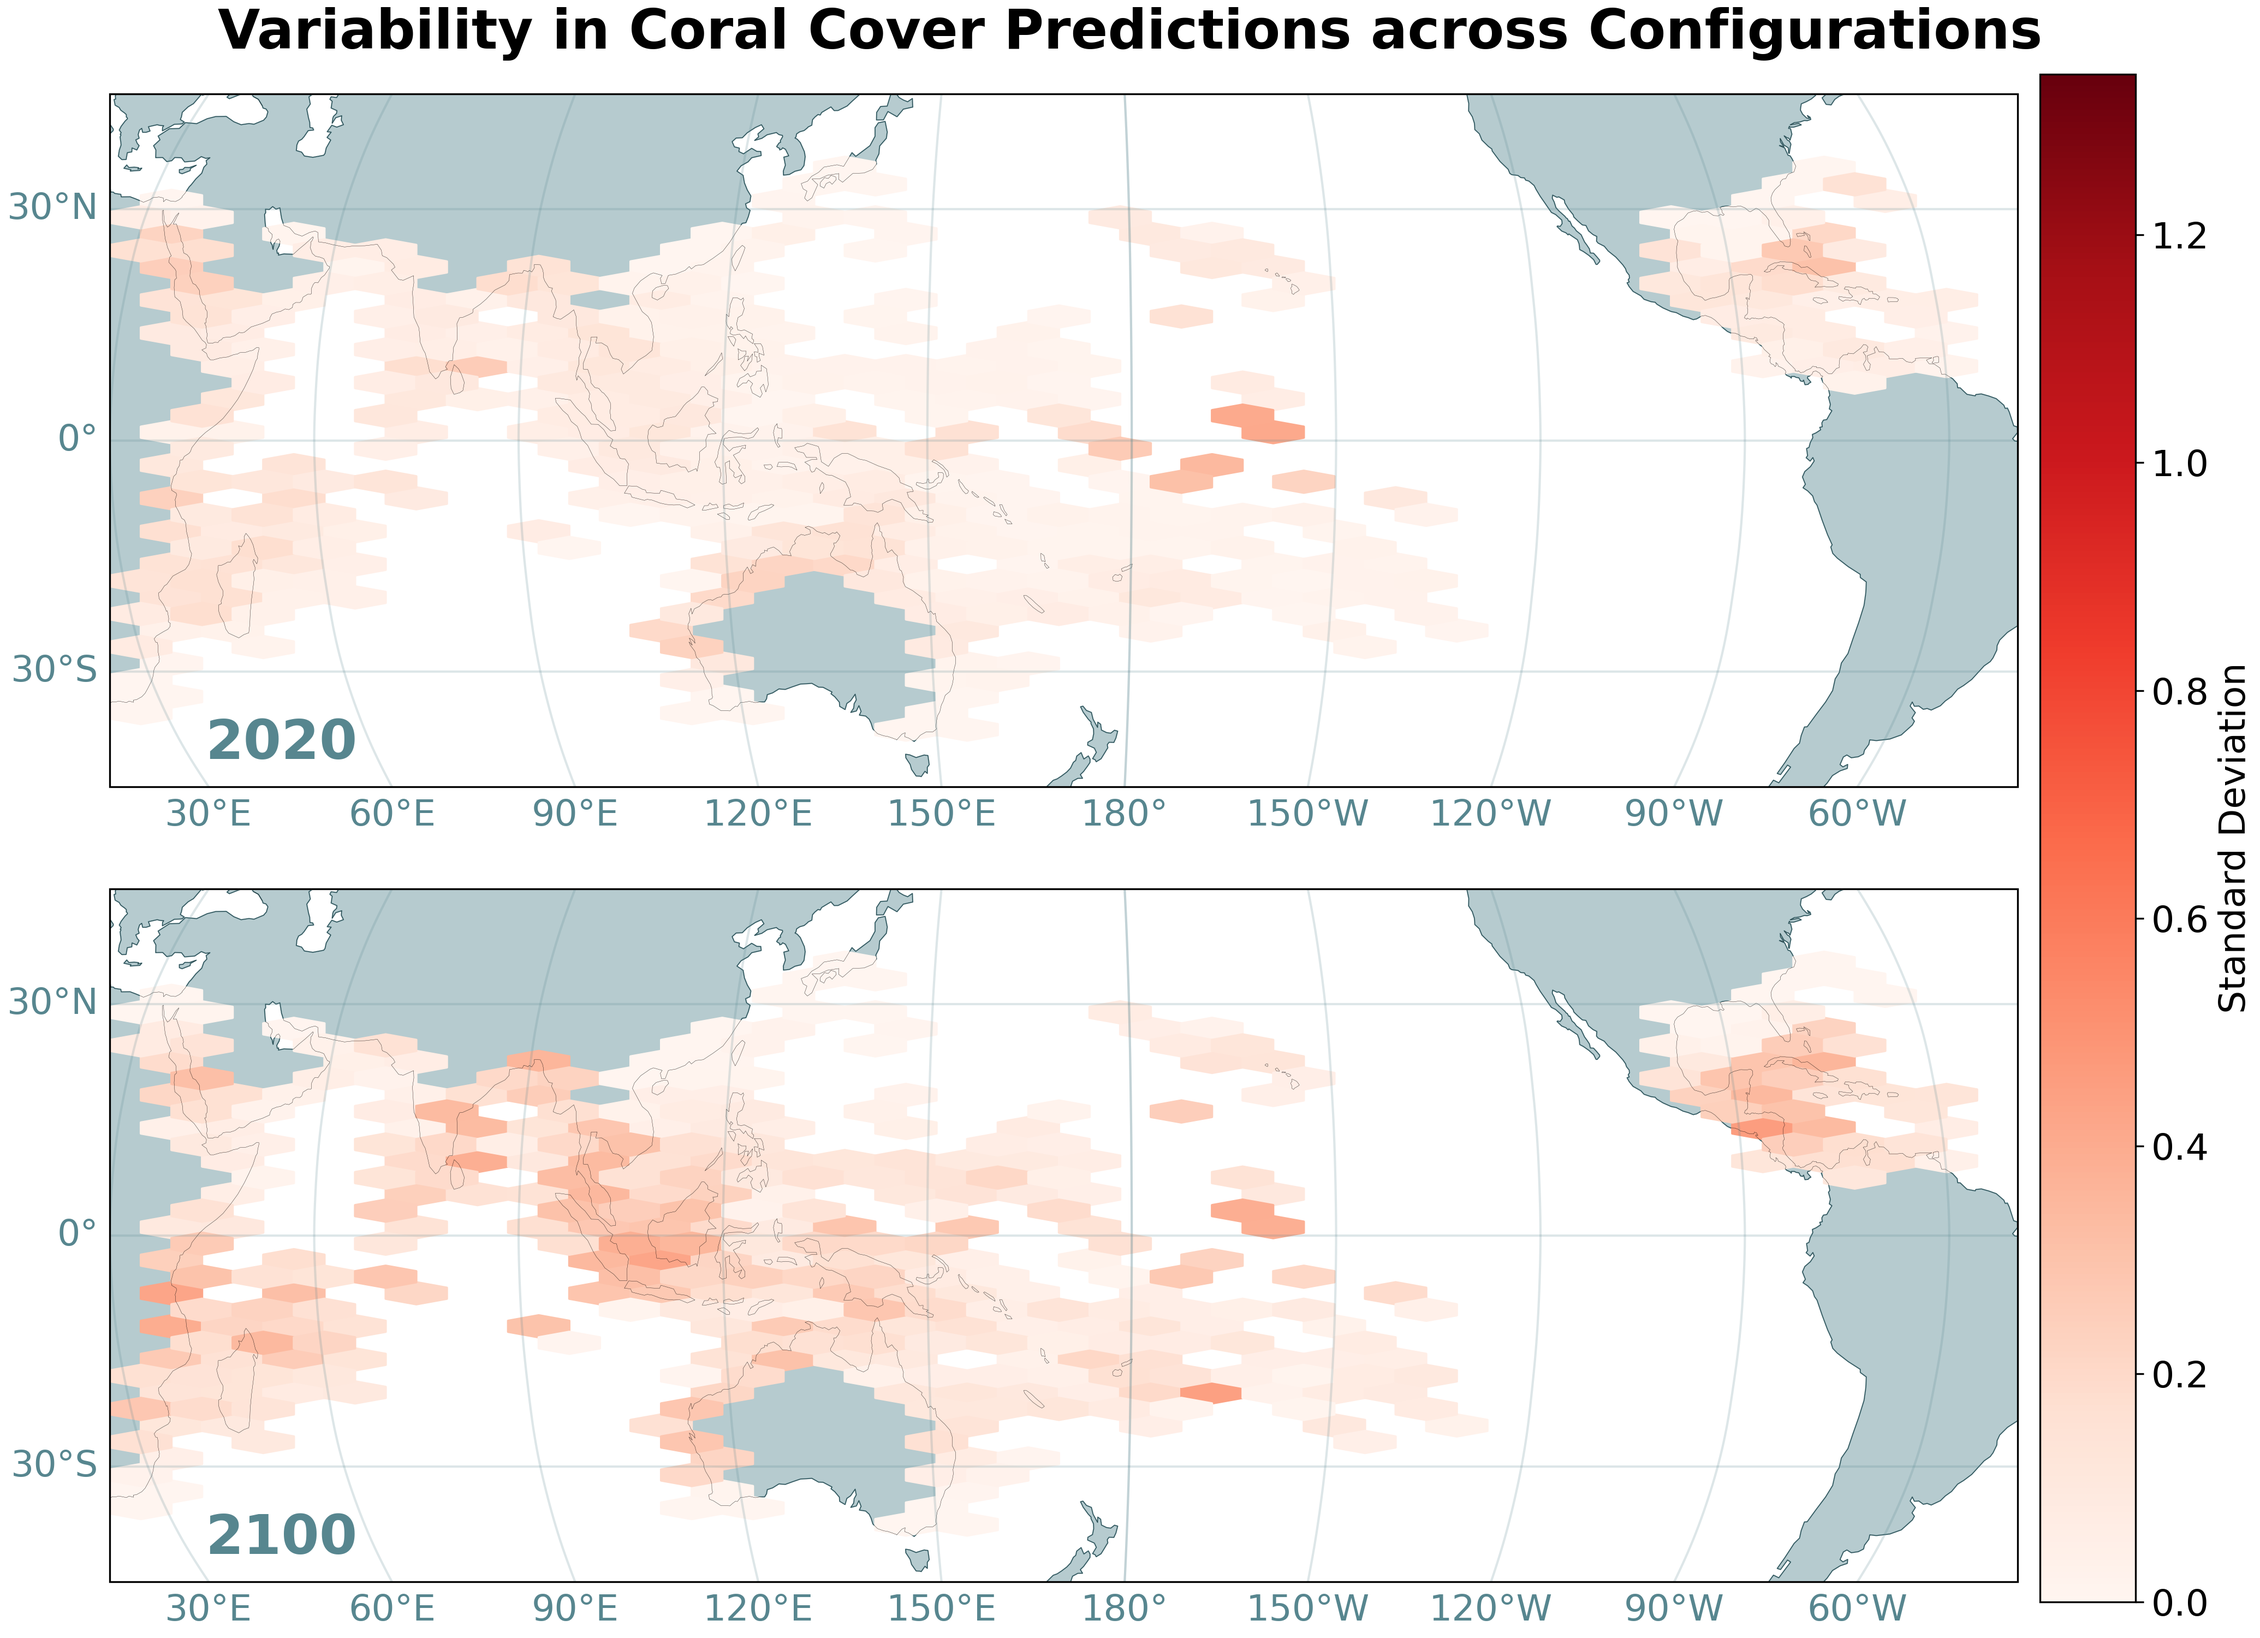
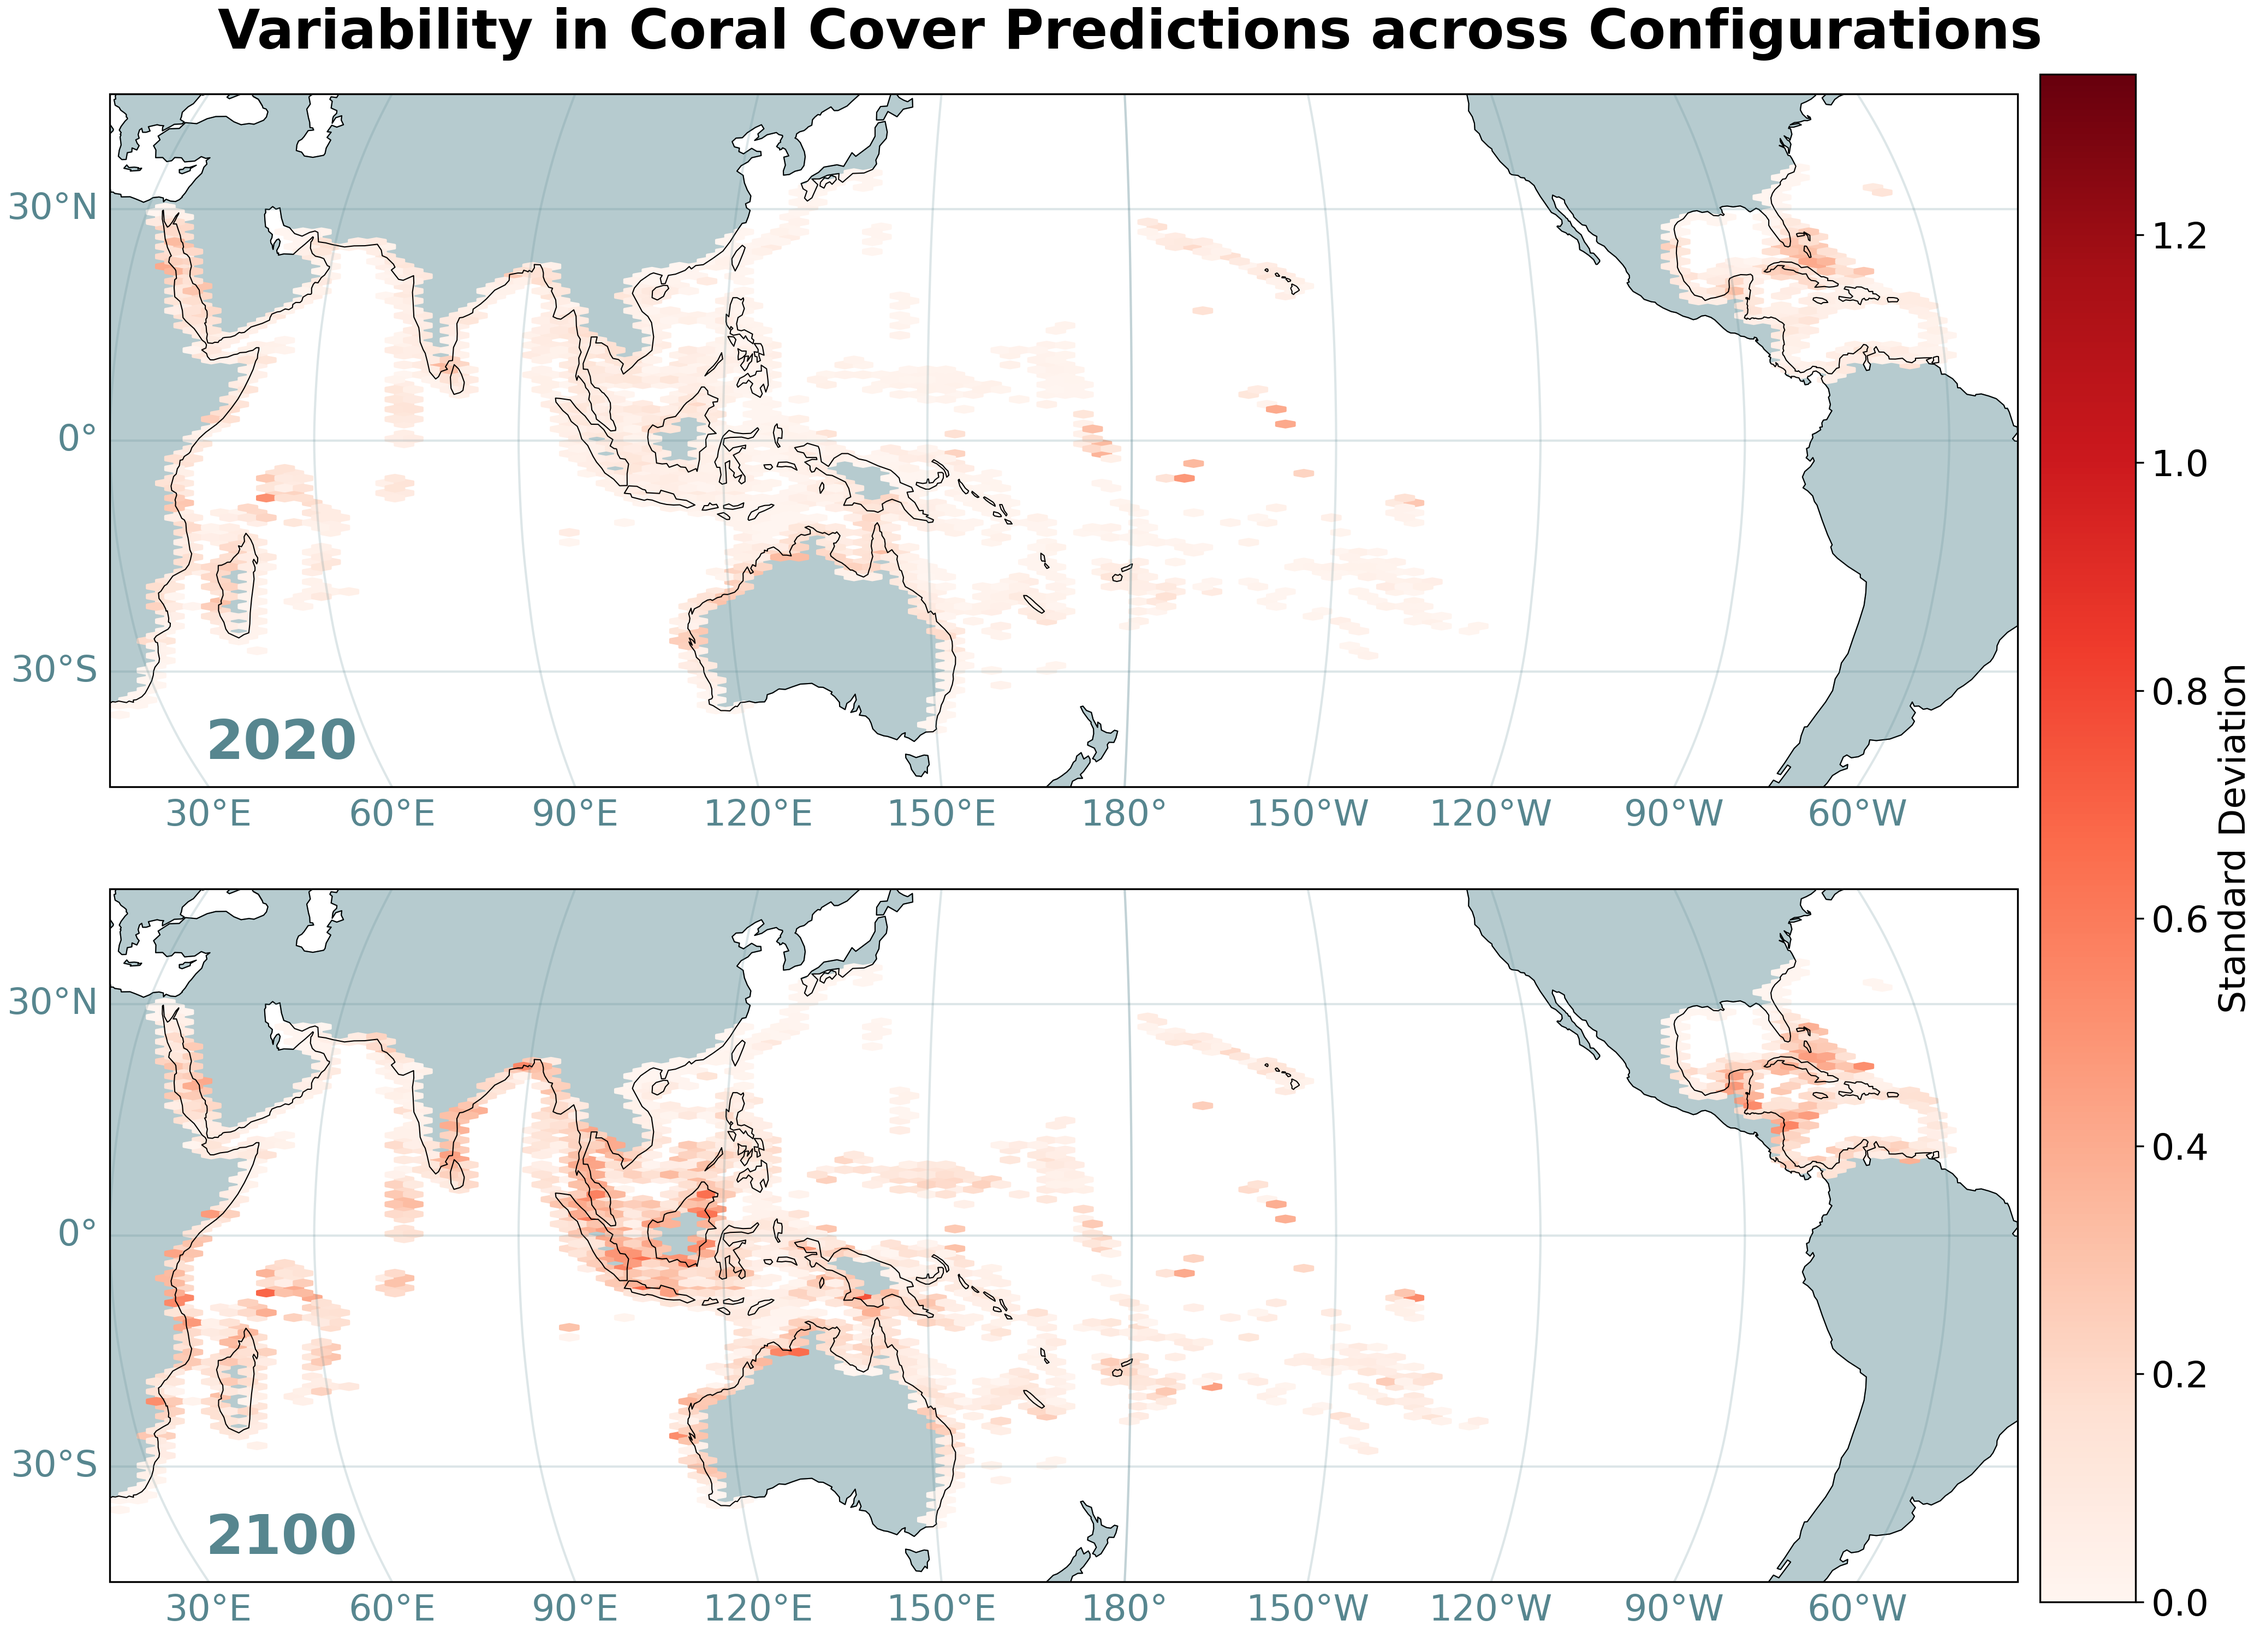
adjust line width add notes

diff --git a/fig_1.py b/fig_1.py
@@ -58,7 +58,7 @@ for i in range(2):
     ax.set_extent([central_lon - width, central_lon + width, central_lat - height, central_lat + height], ccrs.PlateCarree())
 
     # 加入海岸線和陸地特徵
-    ax.add_feature(cfeature.COASTLINE, linewidth=0.1)
+    ax.add_feature(cfeature.COASTLINE, linewidth=0.5)
     ax.add_feature(cfeature.LAND, facecolor='#b6cbcf', edgecolor='#57868f', linewidth=0.5)
 
     # 添加經緯度線
@@ -73,15 +73,16 @@ for i in range(2):
     # 繪製變異性資料點，設置相同的 vmin 和 vmax 來保持顏色一致
     # Use hexbin to show density
     hexbin = ax.hexbin(
-        data_std['longitude'],
-        data_std['latitude'],
-        C=data_values[i],
-        gridsize=30,  # Adjust grid size
-        cmap=colormaps[i],
+        data_std['longitude'],  # Longitude values for each data point
+        data_std['latitude'],  # Latitude values for each data point
+        C=data_values[i], # The value associated with each data point
+        gridsize=100,  # Adjust grid size, larger smaller
+        cmap=colormaps[i], # Specifies the color maps
         mincnt=1,  # Show only cells with at least 1 point
-        vmin=vmin,
-        vmax=vmax,
-        transform=ccrs.PlateCarree()
+        vmin=vmin, # Sets the minimum value for color mapping
+        vmax=vmax, # Sets the maximum value for color mapping
+        reduce_C_function=np.mean,  # Specifies that values in each hexagon should be averaged rather than summed
+        transform=ccrs.PlateCarree() #coordinates are in Plate Carree projection
     )
 
     # 在地圖左下角顯示年份標題
